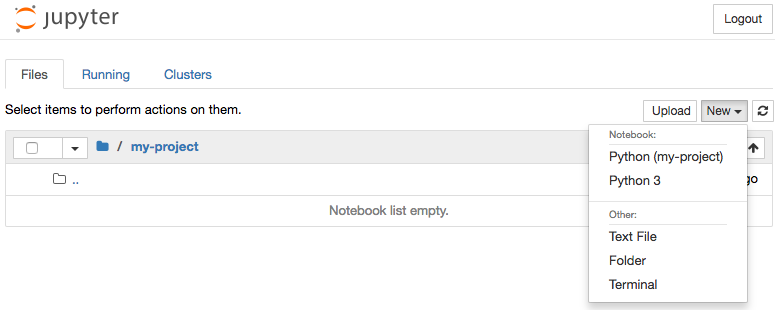
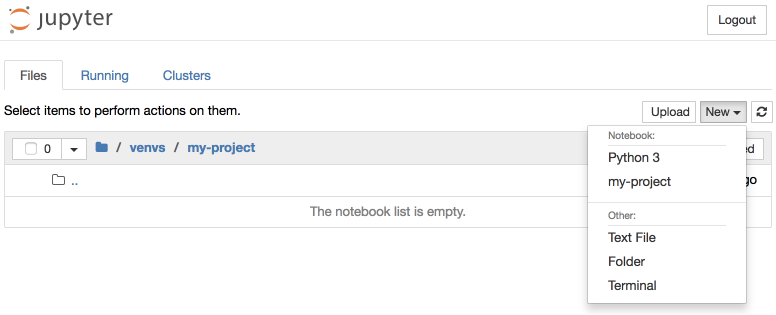
Update instructions

diff --git a/README.md b/README.md
@@ -9,6 +9,7 @@ WORKON_HOME=$HOME/.virtualenvs
 PROJECT_HOME=$HOME/Code
 ```
 
+
 ## Install Jupyter
 
 **Note**: If you're using the Anaconda distribution of Python, you can probably skip this step, and just run `jupyter notebook` in the default environment.
@@ -41,39 +42,39 @@ $ source $WORKON_HOME/my-project/bin/activate
 # The `ipykernel` package should be added to this environment's requirements.txt
 (my-project)$ pip install ipykernel
 
-# Using Bash parameter expansion to get the virtual environment name
-(my-project)$ VENV=${VIRTUAL_ENV##*/}
-(my-project)$ python -m ipykernel install --user --name="$VENV" --display-name="Python ($VENV)"
+(my-project)$ python -m ipykernel install --user --name="$(basename $VIRTUAL_ENV)"
 ```
 
-On macOs, this will create a Jupyter kernel spec in `$HOME/Library/Jupyter/kernels/my-project`. You can edit `kernel.json` in that directory to set environment variables or pass additional arguments to `python`.
+On macOS, this will create a Jupyter kernel spec in `$HOME/Library/Jupyter/kernels/my-project`. You can edit `kernel.json` in that directory to set environment variables or pass additional arguments to `python`.
 
 
 ## Location of notebooks
 
-By default, new notebooks are created at the root directory of the notebook server (`~/Code/jupyter-venv` in this example). At the very least, I recommend using `New > Folder` to create a sub-directory with the name of your virtual environment (`my-project` in this example), and creating notebooks for that environment in that directory.
-
-However, this means that notebooks will still live in the `jupyter-venv` repo. If you'd prefer they live in the `my-project` repo, you can create a symbolic link:
+By default, new notebooks are created at the root directory of the notebook server (`~/Code/jupyter-venv` in this example). However, this means that notebooks created using the `my-project` kernel will live in the `jupyter-venv` directory. If you'd prefer that notebooks using the `my-project` kernel live in the `my-project` directory (e.g., to commit them to the same Git repo), you could create a symbolic link in the `jupyter-venv` directory:
 
 ```text
-(my-project)$ VENV=${VIRTUAL_ENV##*/}
-(my-project)$ mkdir "$PROJECT_HOME/$VENV/jupyter-notebooks"
-(my-project)$ ln -s "$PROJECT_HOME/$VENV/jupyter-notebooks" "$PROJECT_HOME/jupyter-venv/$VENV"
-(my-project)$ echo $VENV >> "$PROJECT_HOME/jupyter-venv/.gitignore"
+(jupyter-venv)$ mkdir venvs
+(jupyter-venv)$ echo venvs >> .gitignore
+(jupyter-venv)$ VENV=my-project
+(jupyter-venv)$ mkdir "$PROJECT_HOME/$VENV/jupyter-notebooks"
+(jupyter-venv)$ ln -s "$PROJECT_HOME/$VENV/jupyter-notebooks" "venvs/$VENV"
 ```
+
+Alternatively, you could run `jupyter notebook` from a parent directory containing all of your projects, and navigate to the `my-project` directory.
 
 
 ## Creating notebooks inside a virtual environment
 
-Now, reload your Jupyter Notebook browser tab, and you should see the sub-directory or symbolic link that you created:
+Now, reload your Jupyter Notebook browser tab, and you should see the sub-directory that you created:
 
-![Project sub-directory](img/nb-my-project-dir.png)
+![Project sub-directory](img/nb-venvs-dir.png)
 
-Click `my-project`, and then use `New > Python (my-project)` to create a notebook:
+Click `venvs`, then `my-project`, then use `New > my-project` to create a notebook:
 
 ![Project kernel](img/nb-my-project-kernel.png)
 
-You can now use all of the packages that installed in the `my-project` environment. It also means that you can't use the packages in the `jupyter-venv` environment, used by the default `Python 3` kernel. So, if you want to use packages like Pandas or matplotlib, you'll need to `pip install` them in the `my-project` environment (ideally by adding them to its `requirements.txt`).
+You can now use all of the packages that are installed in the `my-project` environment. It also means that you can't use the packages in the `jupyter-venv` environment, used by the default `Python 3` kernel. So, if you want to use packages like Pandas or matplotlib, you'll need to `pip install` them in the `my-project` environment (ideally by adding them to its `requirements.txt`).
+
 
 ## Reference
 
@@ -87,3 +88,4 @@ You can now use all of the packages that installed in the `my-project` environme
 
 - Rationale for not running `jupyter notebook` in project's virtual environment
 - Shell script for adding kernel and symlinking notebook directory
+- `brew install jupyter`?
